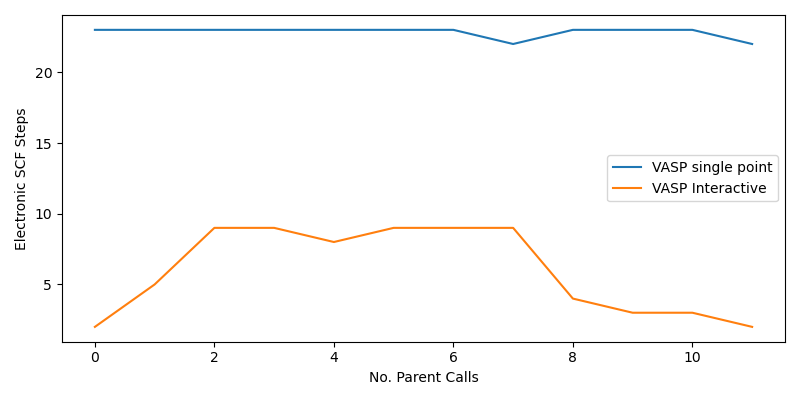
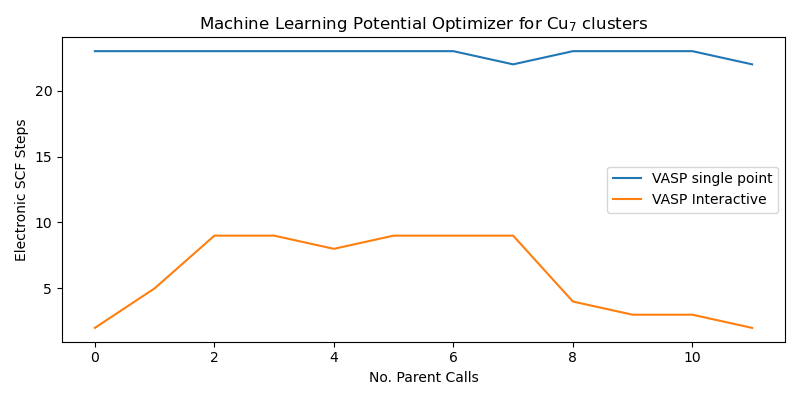
Add online comparison demo

diff --git a/examples/mlp_examples/plot_scf.py b/examples/mlp_examples/plot_scf.py
@@ -12,5 +12,6 @@ ax.plot(d2[:12], label="VASP Interactive")
 ax.set_xlabel("No. Parent Calls")
 ax.set_ylabel("Electronic SCF Steps")
 ax.legend()
+ax.set_title("Machine Learning Potential Optimizer for Cu$_7$ clusters")
 fig.tight_layout()
 fig.savefig("mlp_online_parent_scf.png")

diff --git a/README.md b/README.md
@@ -113,6 +113,11 @@ In addition to the constant time reduction using `VaspInteractive+ASE` compared 
 `GPMin` seems to be the most reliable optimizer to be combined. In most cases `VaspInteractive+GPMin` 
 outperforms VASP internal CG routine (`IBRION=2`) and gives more consistent results than RMM-DIIS (`IBRION=1`).
 
+![benchmark-3](examples/mlp_examples/mlp_online.png)
+
+`VaspInteractive` is also possible to combine with some more complex optimizers like `al_mlp+amptorch`, 
+as the benchmark for a 7-atom Cu cluster shows. 
+
 ## More examples
 - [examples/ex01_h2_relax.py](examples/ex01_h2_relax.py): Basic example of structural relaxation
 - [examples/ex02_h2_comparison.py](examples/ex02_h2_comparison.py): Comparing `VaspInteractive` with pure VASP and VASP+BFGS
@@ -120,7 +125,8 @@ outperforms VASP internal CG routine (`IBRION=2`) and gives more consistent resu
 - [examples/ex04_reset_calculator.py](examples/ex04_reset_calculator.py): Restarting `VaspInteractive` for various structures (different formulae)
 - [examples/ex05_rattle_atoms.py](examples/ex05_rattle_atoms.py): Apply `VaspInteractive` to sequence of structures (same formula, different positions)
 - [examples/ex06_benchmark.py](examples/ex06_benchmark.py) and [examples/ex07_benchmark.py](examples/ex07_benchmark.py): Running benchmark. You can delete `examples/benchmark.pkl` and `examples/benchmark-large.pkl` if you want to re-run the calculations (may take up to a few hours).
-- [examples/ex08_dask_par.py](ex08_dask_par.py): Simple example running parallel relaxation jobs using Dask. See `examples/ex08_sample_output.txt` for an example of output.
+- [examples/ex08_dask_par.py](examples/ex08_dask_par.py): Simple example running parallel relaxation jobs using Dask. See `examples/ex08_sample_output.txt` for an example of output.
+- [examples/ex10_mlp_online.py](examples/ex10_mlp_online.py): Example with online machine learning potential (`al_mlp` + `amptorch`).
 
 
 ## Limitations
